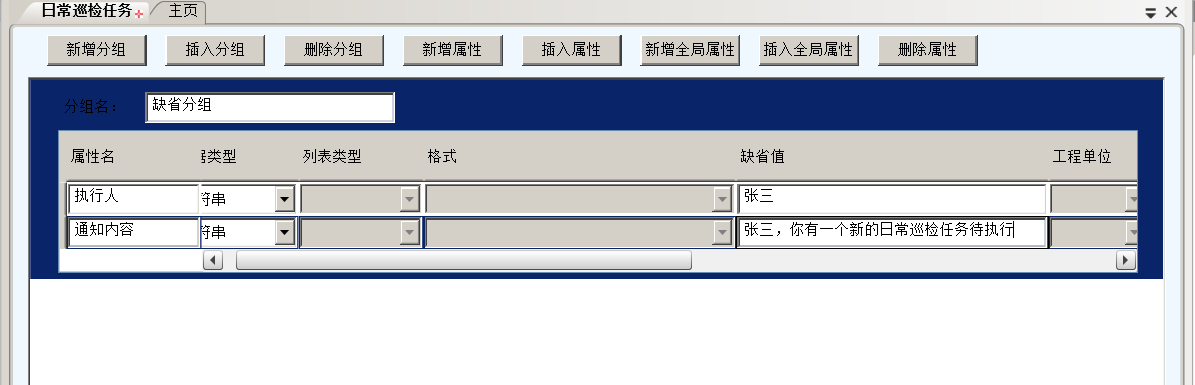
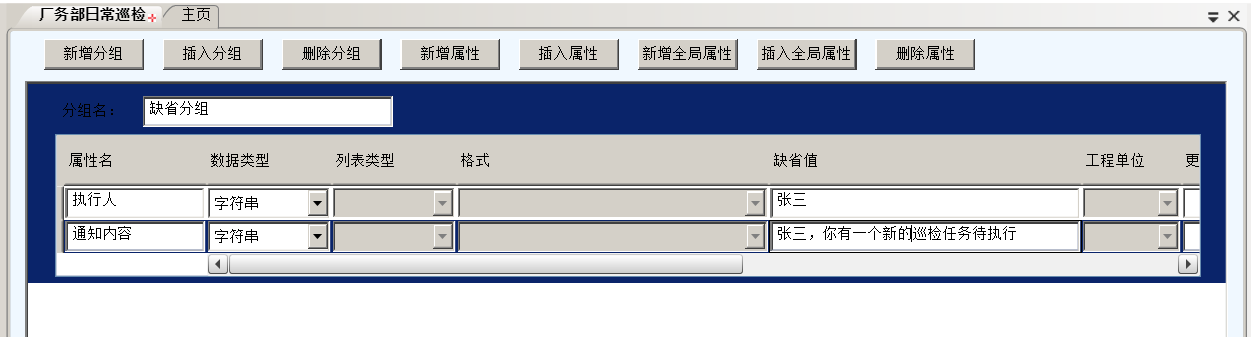
修改

diff --git a/系统扩展指南/社交平台集成示例-作业任务钉钉推送.md b/系统扩展指南/社交平台集成示例-作业任务钉钉推送.md
@@ -101,13 +101,13 @@ function HttpRequest(url,requestData){
 
 * `Type` 类型，`0` 表示默认不@任何人；`1` 表示来自作业组属性值，作业组需建立@“执行人”的作业组属性。
 
-* `taskgroupPropertyName` 作业组属性名，Type值等于`1`时，此项才有效
+* `taskgroupPropertyName` 作业组属性名，Type值等于`1`时，此项才有效。
 
 3. 配置通知内容
 
-* `Type`  `0`表示默认作业组名+活动节点名；`1`来自作业组属性值，作业组需建立“通知内容”相关的作业组属性，并在属性值添加相应通知内容
+* `Type`  `0`表示默认作业组名+活动节点名；`1`来自作业组属性值，作业组需建立“通知内容”相关的作业组属性，并在属性值添加相应通知内容。
 
-* `taskgroupPropertyName` 作业组属性名
+* `taskgroupPropertyName` 作业组属性名，Type值等于`1`时，此项才有效。
 
 4. 配置钉钉机器人URL
 
@@ -150,29 +150,29 @@ function HttpRequest(url,requestData){
 
 * 作业组配置
 
-添加三个作业组，分别为**日常巡检任务，日常巡检，维修上报**，如图
+添加三个作业组，分别为**厂务部日常巡检，废水部日常巡检，维修上报**，如图
 
 ![](./images/作业组.png)
 
-为**日常巡检任务，日常巡检**两个作业组配置同一个流程：**日常巡检流程**；为**维修上报**作业组配置**维修上报**流程。
+为**厂务部日常巡检，废水部日常巡检**两个作业组配置同一个流程：**日常巡检流程**；为**维修上报**作业组配置**维修上报**流程。
 
 为这些作业组添加两个作业组属性：“**执行人**”和“**通知内容**”。
 
-以日常巡检任务为例，作业组属性如下配置：
+以**厂务部日常巡检**作业组为例，作业组属性如下配置：
 
 **执行人**：**字符串**类型，**缺省值**为张三
 
-**通知内容**：**字符串**类型，**缺省值**为张三，你有一个新的日常巡检任务待执行
+**通知内容**：**字符串**类型，**缺省值**为张三，你有一个新的巡检任务待执行
 
 如图：
 
 ![](./images/作业组属性配置.png)
 
-另外两个作业组相同如上配置。
+另外两个作业组配置相同，如上。
 
 * 创建流程
 
-分别创建两个日常巡检流程，维修流程
+分别创建两个流程：**日常巡检流程，维修流程**
 
 维修流程如图：
 
@@ -190,13 +190,13 @@ function HttpRequest(url,requestData){
   "BusinessProcessInfo":[
  
   {
-   "taskGroupName":"日常巡检任务",
+   "taskGroupName":"厂务部日常巡检",
    "BusinessProcessName":"日常巡检流程",
    "ActivityEntityName":"执行"
   },
   {
-   "taskGroupName":"日常巡检任务",
-   "BusinessProcessName":"日常巡检",
+   "taskGroupName":"废水部日常巡检",
+   "BusinessProcessName":"日常巡检流程",
    "ActivityEntityName":"执行"
   }
   ],
